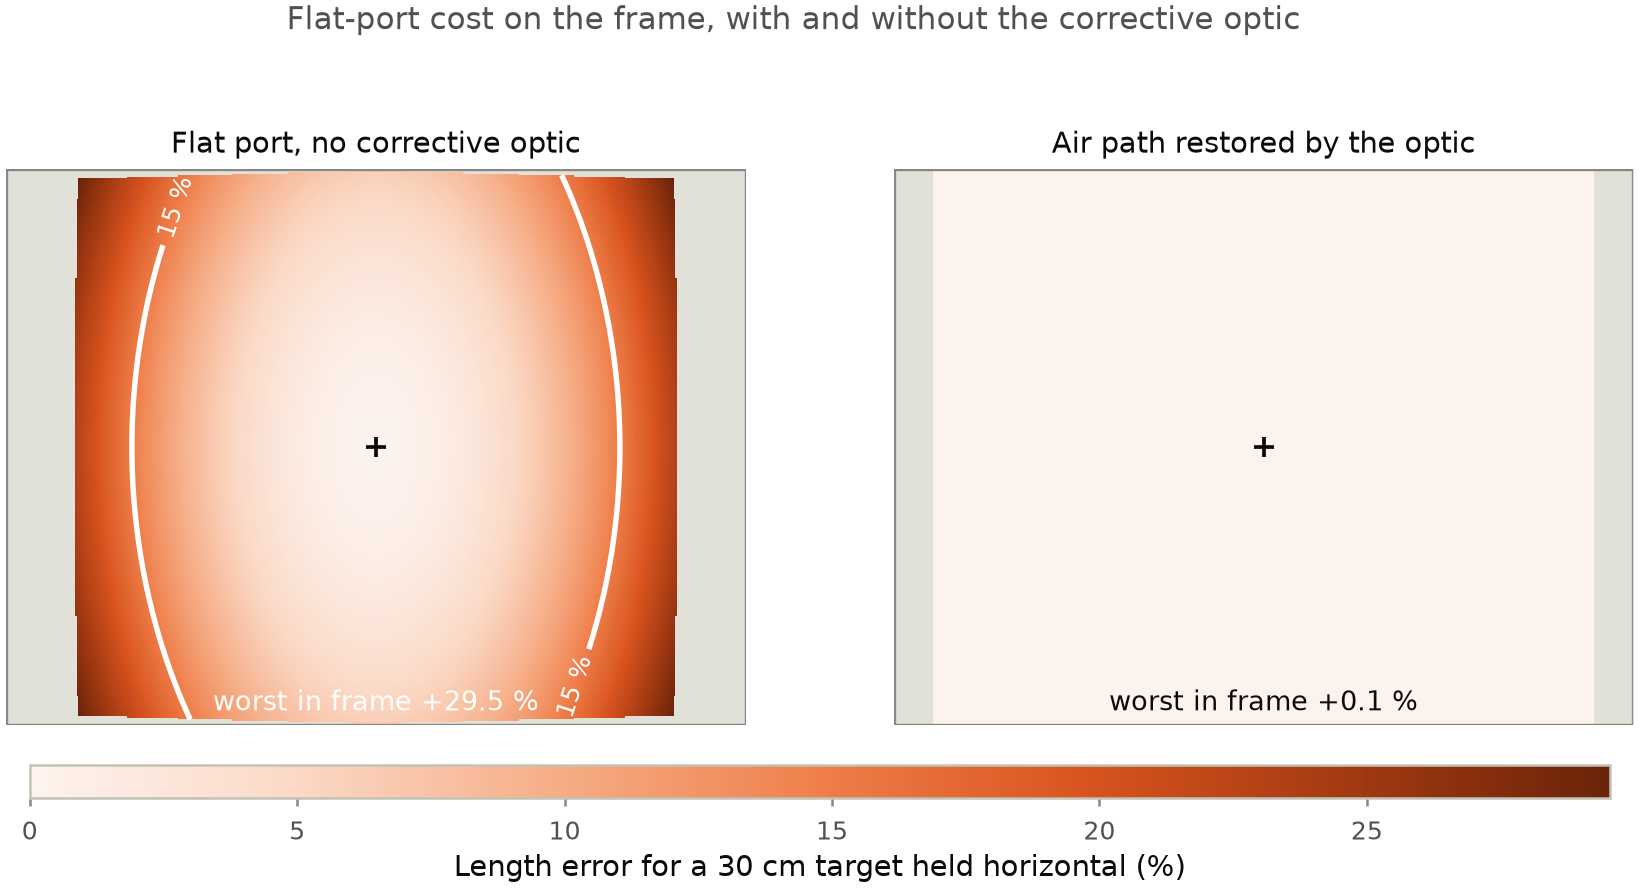
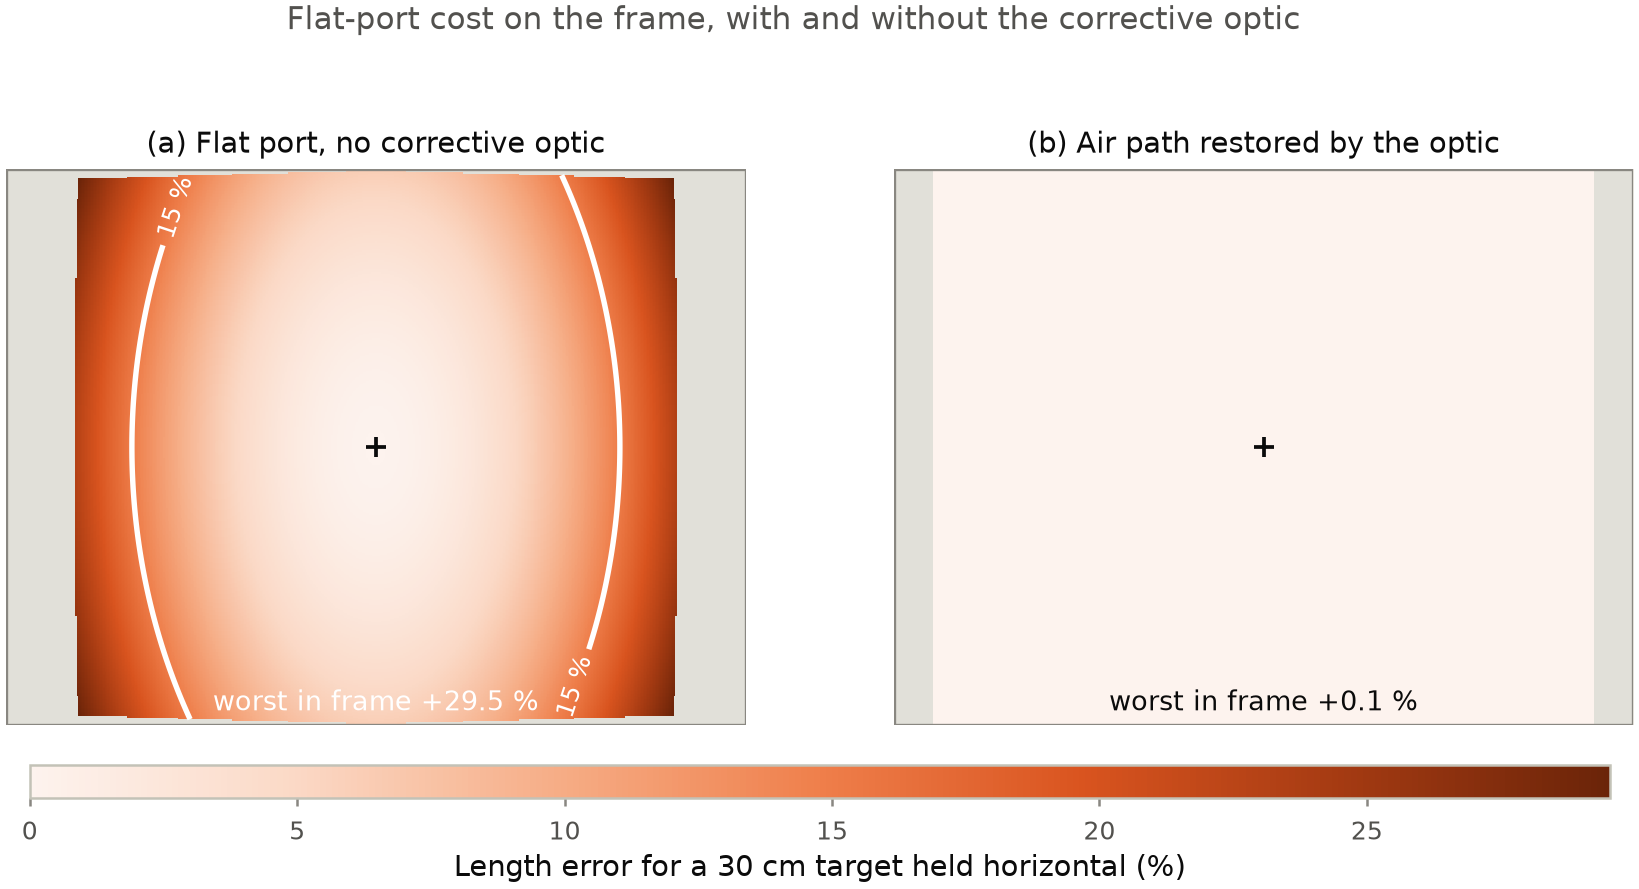
Figure 9b: label the panels (a) and (b)
The figure was already two panels; only the subplot titles and the caption's
"left field"/"right panel" named them, which a LaTeX cross-reference cannot
point at. Titles are now "(a) Flat port, no corrective optic" and "(b) Air path
restored by the optic", and the caption refers to them by label.

Nothing else changes -- same model, same numbers, same colour scale.

Changed region(s): [[0.6223, 0.1519, 0.9335, 0.1822], [0.0933, 0.1519, 0.3734, 0.1822]]

diff --git a/fishsense_imwut/pubfig.py b/fishsense_imwut/pubfig.py
@@ -2269,8 +2269,8 @@ def fig_flat_port_before_after(
 
     fig, axes = plt.subplots(1, 2, figsize=figsize)
     for ax, err, title in (
-        (axes[0], left, "Flat port, no corrective optic"),
-        (axes[1], right, "Air path restored by the optic"),
+        (axes[0], left, "(a) Flat port, no corrective optic"),
+        (axes[1], right, "(b) Air path restored by the optic"),
     ):
         im = ax.imshow(err, extent=uncorrected["extent"], origin="upper",
                        aspect="equal", cmap=_PORT_ERROR_RAMP, vmin=0.0, vmax=vmax,

diff --git a/PAPER.md b/PAPER.md
@@ -838,14 +838,14 @@ caught any of this in the field.
   on one colour scale. Each panel **is** the 4014 × 3016 image, so "where in the picture"
   needs no translation into degrees and cannot be misread as the fish's pose. White contour:
   the 15 % budget. Grey: a 300 mm target centred there would not fit in frame.
-  **The left field is not radially symmetric, and that is the argument.** The port is
+  **Panel (a) is not radially symmetric, and that is the argument.** The port is
   rotationally symmetric but the target is not a point — held horizontal it lies *along* a
   radius at the left and right edges and *across* one at the top and bottom, and radial and
   tangential magnification differ. The same fish at the same distance from the centre reads
   **+23 % at the side and +6 % at the top**, +0.1 % at the centre, and **+29.5 %** in the
   corner. No single scale factor is right at all three, which is why a calibration cannot
   absorb this.
-  **What the right panel is, and is not.** It is the same model with the index step removed
+  **What panel (b) is, and is not.** It is the same model with the index step removed
   — the air path the M52 lens restores at the port — and *not* a refraction correction; the
   Pinax model and the in-water single-viewpoint calibration are the companion paper's
   contribution and appear nowhere here. So it is close to tautological: take the water
